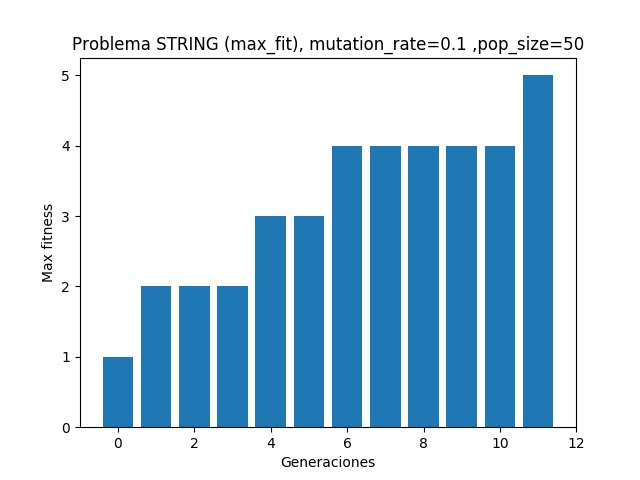
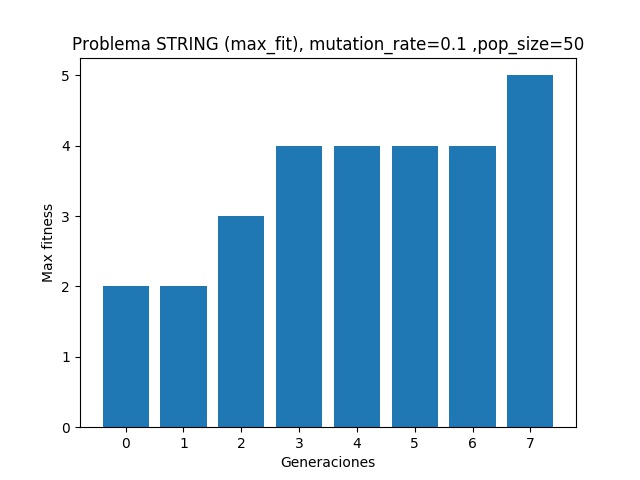
MOD: Nueva forma de obtener resultados generales

diff --git a/main.py b/main.py
@@ -1,3 +1,5 @@
+import numpy as np
+
 from fitness.bits_fitness import BitFitness
 from fitness.nqueens_fit import NQueensFit
 from genetic_algorithm import GeneticAlgorithm
@@ -5,7 +7,6 @@ from population.pop_nqueens import PopNQueens
 from population.population import Population
 from reproduction.reproduction import Reproduction
 from selection.selection import Selection
-
 from tools import graficar
 
 
@@ -57,59 +58,82 @@ def main():  # TODO hacer clase/función que reciba los parámetros mutacion_rat
     pop_array = [len_genes * x for x in [2, 5, 10, 20]]
     mutation_array = [0.05, 0.1, 0.3, 0.5]
 
-    time_pop = []
-    time_mutation = []
-    generations_pop = []
-    generations_mutation = []
+    time_pop_global = []
+    time_mutation_global = []
+    generations_pop_global = []
+    generations_mutation_global = []
 
-    for i in range(len(pop_array)):
-        pop_size = pop_array[i]
-        print("Pop size: ", pop_size)
+    n_exp = 10
 
-        mutation_rate = 0.1
-        max_fit = 1.0  # minimo numero de errores
-        ga_string = GeneticAlgorithm(len_genes, genes, pop_size, mutation_rate, max_fit)
-        fitness_max_history, fitness_mean_history, counter, time = ga_string.run(PopNQueens, NQueensFit, Selection,
-                                                                                 Reproduction, ref_individual=False)
+    for x in range(n_exp):
 
-        graficar(range(len(fitness_max_history)), fitness_max_history, f"N-Queens {len_genes} (max_fit)",
-                 "Generaciones", "Max fitness", mutation_rate=mutation_rate, pop_size=pop_size, tipo=3)
-        graficar(range(len(fitness_mean_history)), fitness_mean_history, f"N-Queens {len_genes} (mean_fit)",
-                 "Generaciones", "Mean fitness", mutation_rate=mutation_rate, pop_size=pop_size, tipo=3)
-        print("Generaciones: ", counter)
-        print("Tiempo: ", time)
-        print()
-        time_pop.append(time)
-        generations_pop.append(counter)
+        time_pop = []
+        time_mutation = []
+        generations_pop = []
+        generations_mutation = []
 
-    for i in range(len(mutation_array)):
-        mutation_rate = mutation_array[i]
-        print("mutation_rate: ", mutation_rate)
+        print("Experimento", x)
 
-        pop_size = len_genes * 10
-        max_fit = 1.0  # minimo numero de errores
-        ga_string = GeneticAlgorithm(len_genes, genes, pop_size, mutation_rate, max_fit)
-        fitness_max_history, fitness_mean_history, counter, time = ga_string.run(PopNQueens, NQueensFit, Selection,
-                                                                                 Reproduction, ref_individual=False)
+        for i in range(len(pop_array)):
+            pop_size = pop_array[i]
+            # print("Pop size: ", pop_size)
 
-        graficar(range(len(fitness_max_history)), fitness_max_history, f"N-Queens {len_genes} (max_fit)",
-                 "Generaciones", "Max fitness", mutation_rate=mutation_rate, pop_size=pop_size, tipo=3)
-        graficar(range(len(fitness_mean_history)), fitness_mean_history, f"N-Queens {len_genes} (mean_fit)",
-                 "Generaciones", "Mean fitness", mutation_rate=mutation_rate, pop_size=pop_size, tipo=3)
-        print("Generaciones: ", counter)
-        print("Tiempo: ", time)
-        print()
-        time_mutation.append(time)
-        generations_mutation.append(counter)
+            mutation_rate = 0.1
+            max_fit = 1.0  # minimo numero de errores
+            ga_string = GeneticAlgorithm(len_genes, genes, pop_size, mutation_rate, max_fit)
+            fitness_max_history, fitness_mean_history, counter, time = ga_string.run(PopNQueens, NQueensFit, Selection,
+                                                                                     Reproduction, ref_individual=False)
 
-    graficar(range(len(time_pop)), time_pop, "Tiempo poblaciones", xlabel="Poblaciones", ylabel="Tiempo", tipo=3,
+            # graficar(range(len(fitness_max_history)), fitness_max_history, f"N-Queens {len_genes} (max_fit)",
+            #          "Generaciones", "Max fitness", mutation_rate=mutation_rate, pop_size=pop_size, tipo=3)
+            # graficar(range(len(fitness_mean_history)), fitness_mean_history, f"N-Queens {len_genes} (mean_fit)",
+            #          "Generaciones", "Mean fitness", mutation_rate=mutation_rate, pop_size=pop_size, tipo=3)
+            # print("Generaciones: ", counter)
+            # print("Tiempo: ", time)
+            # print()
+            time_pop.append(time)
+            generations_pop.append(counter)
+
+        for i in range(len(mutation_array)):
+            mutation_rate = mutation_array[i]
+            # print("mutation_rate: ", mutation_rate)
+
+            pop_size = len_genes * 10
+            max_fit = 1.0  # minimo numero de errores
+            ga_string = GeneticAlgorithm(len_genes, genes, pop_size, mutation_rate, max_fit)
+            fitness_max_history, fitness_mean_history, counter, time = ga_string.run(PopNQueens, NQueensFit, Selection,
+                                                                                     Reproduction, ref_individual=False)
+
+            # graficar(range(len(fitness_max_history)), fitness_max_history, f"N-Queens {len_genes} (max_fit)",
+            #          "Generaciones", "Max fitness", mutation_rate=mutation_rate, pop_size=pop_size, tipo=3)
+            # graficar(range(len(fitness_mean_history)), fitness_mean_history, f"N-Queens {len_genes} (mean_fit)",
+            #          "Generaciones", "Mean fitness", mutation_rate=mutation_rate, pop_size=pop_size, tipo=3)
+            # print("Generaciones: ", counter)
+            # print("Tiempo: ", time)
+            # print()
+            time_mutation.append(time)
+            generations_mutation.append(counter)
+
+        time_pop_global.append(time_pop)
+        time_mutation_global.append(time_mutation)
+        generations_pop_global.append(generations_pop)
+        generations_mutation_global.append(generations_mutation)
+
+    time_pop_global = np.sum(np.array(time_pop_global), axis=0)/n_exp
+    time_mutation_global = np.sum(np.array(time_mutation_global), axis=0)/n_exp
+    generations_pop_global = np.sum(np.array(generations_pop_global), axis=0)/n_exp
+    generations_mutation_global = np.sum(np.array(generations_mutation_global), axis=0)/n_exp
+
+    graficar(range(len(time_pop_global)), time_pop_global, "Tiempo poblaciones", xlabel="Poblaciones", ylabel="Tiempo",
+             tipo=3,
              ticks=pop_array)
-    graficar(range(len(time_mutation)), time_mutation, "Tiempo mutations_rates", xlabel="Mutation rates",
+    graficar(range(len(time_mutation_global)), time_mutation_global, "Tiempo mutations_rates", xlabel="Mutation rates",
              ylabel="Tiempo", tipo=3, ticks=mutation_array)
 
-    graficar(range(len(generations_pop)), generations_pop, "Generaciones poblaciones", xlabel="Poblaciones",
+    graficar(range(len(generations_pop_global)), generations_pop_global, "Generaciones poblaciones",
+             xlabel="Poblaciones",
              ylabel="Generaciones", tipo=3, ticks=pop_array)
-    graficar(range(len(generations_mutation)), generations_mutation, "Generaciones mutations_rates",
+    graficar(range(len(generations_mutation_global)), generations_mutation_global, "Generaciones mutations_rates",
              xlabel="Mutation rates", ylabel="Generaciones", tipo=3, ticks=mutation_array)
 
 
